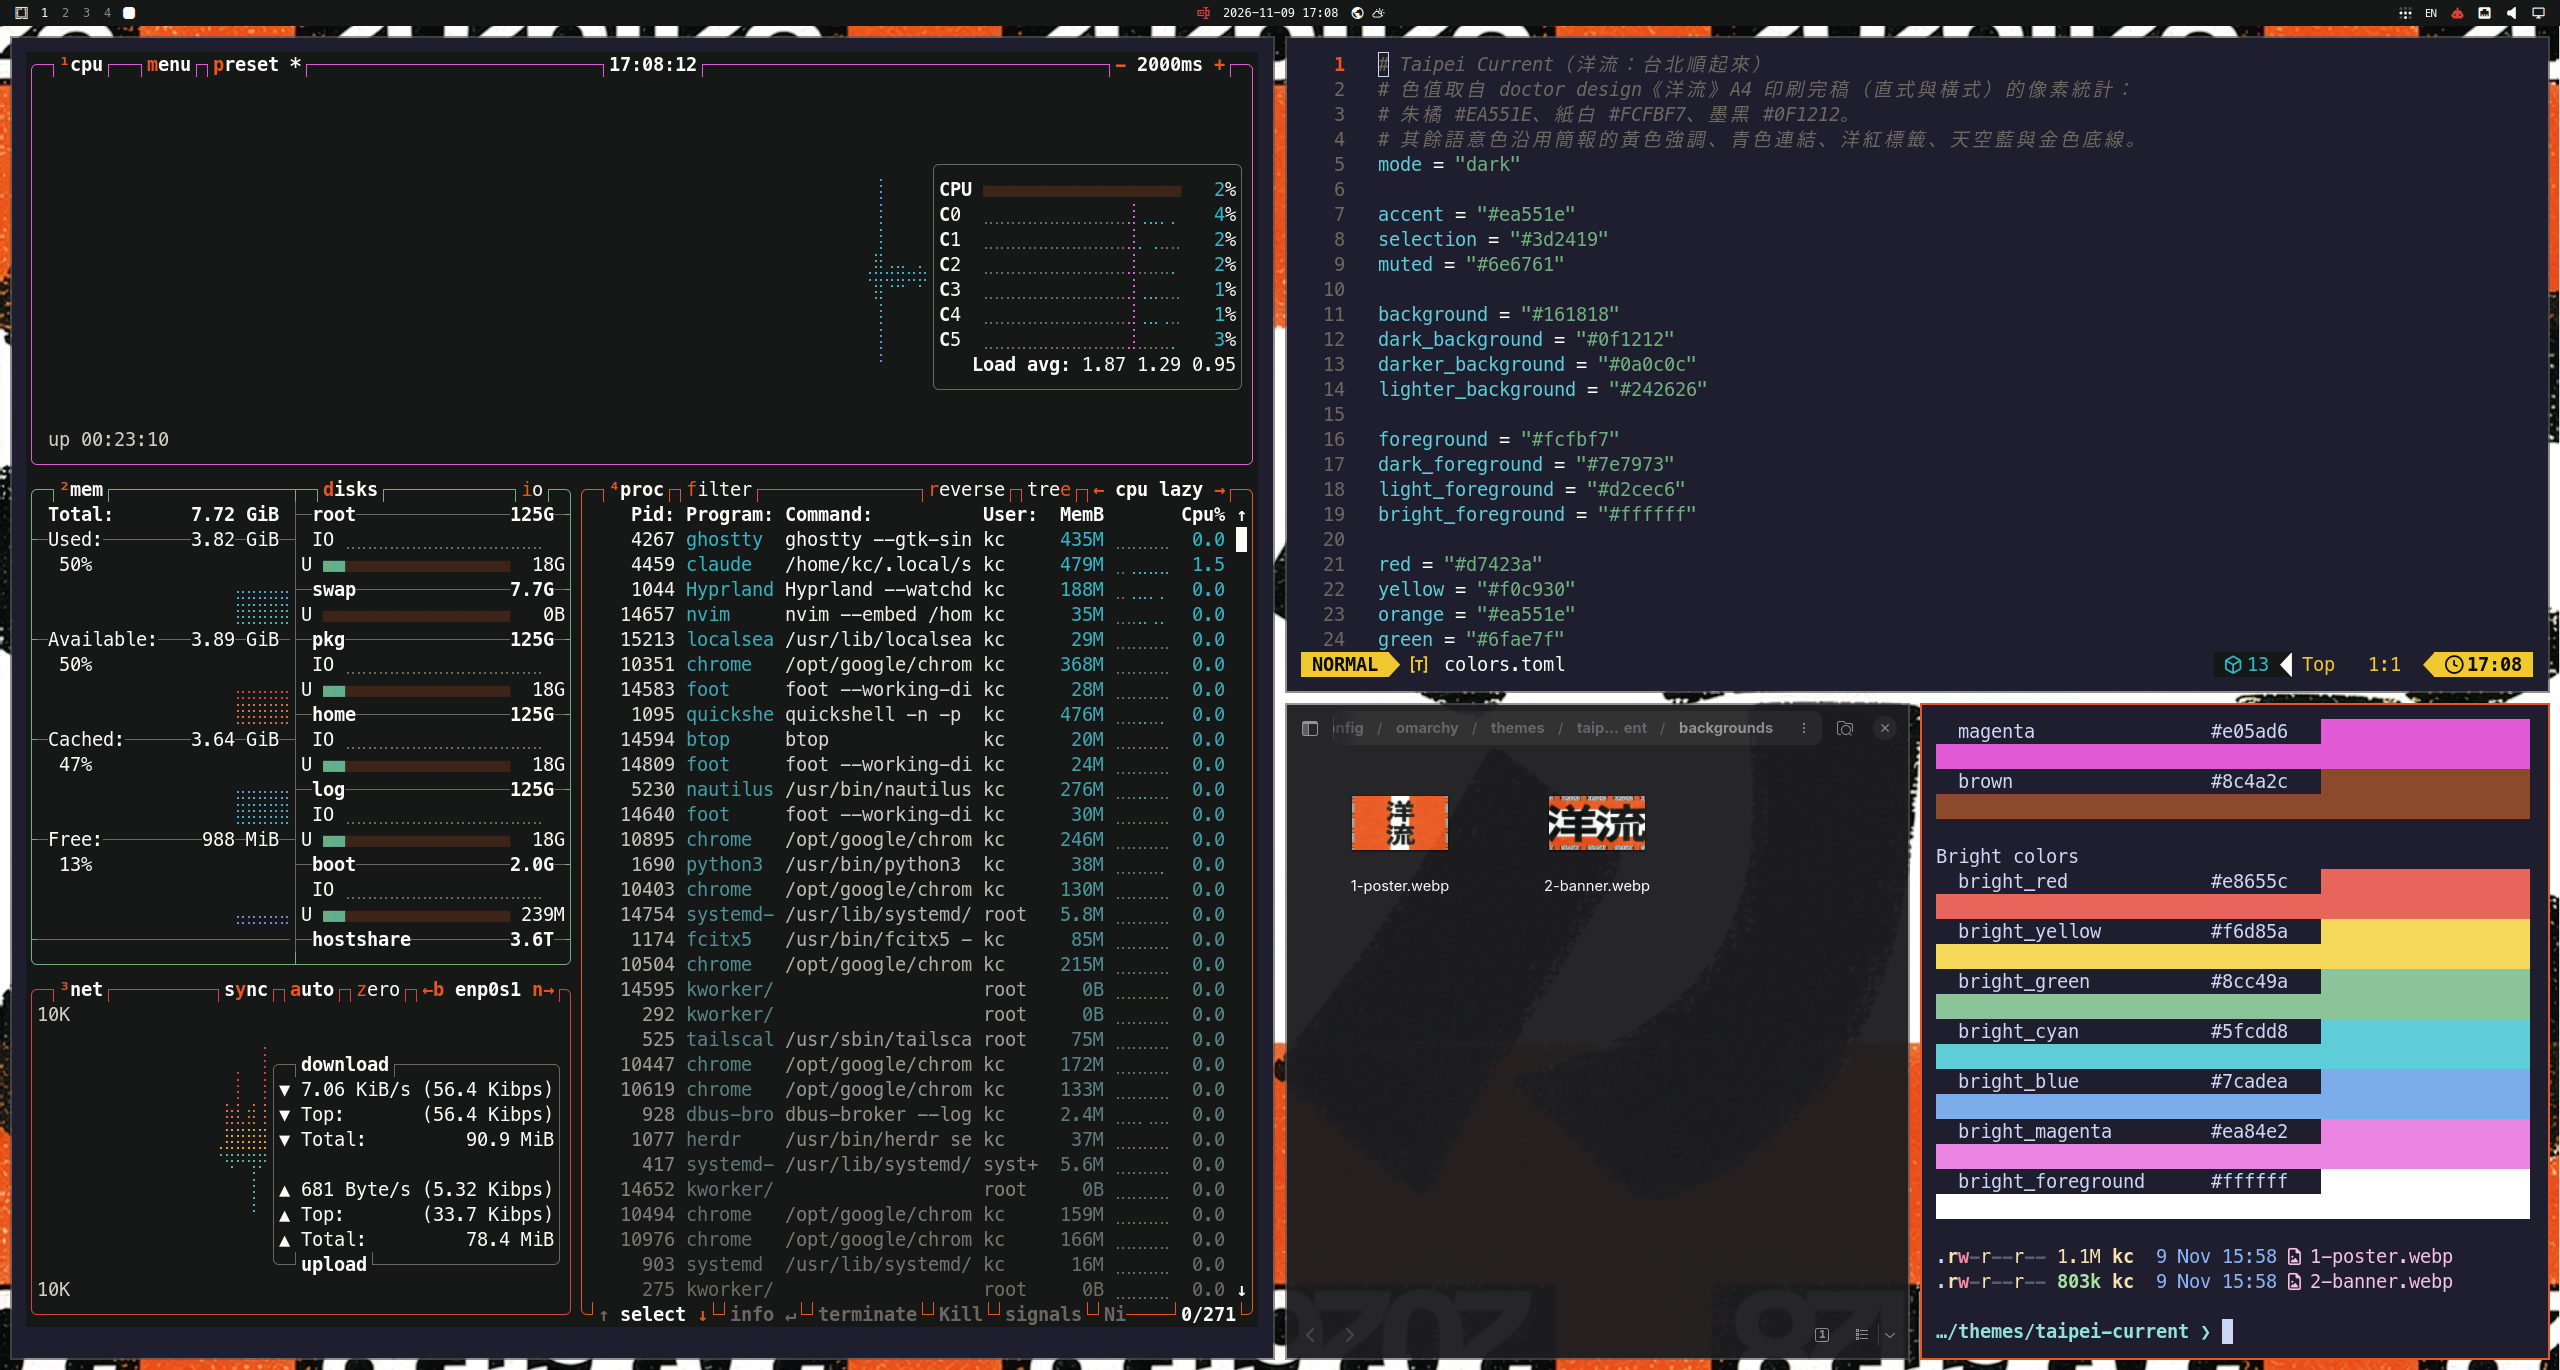
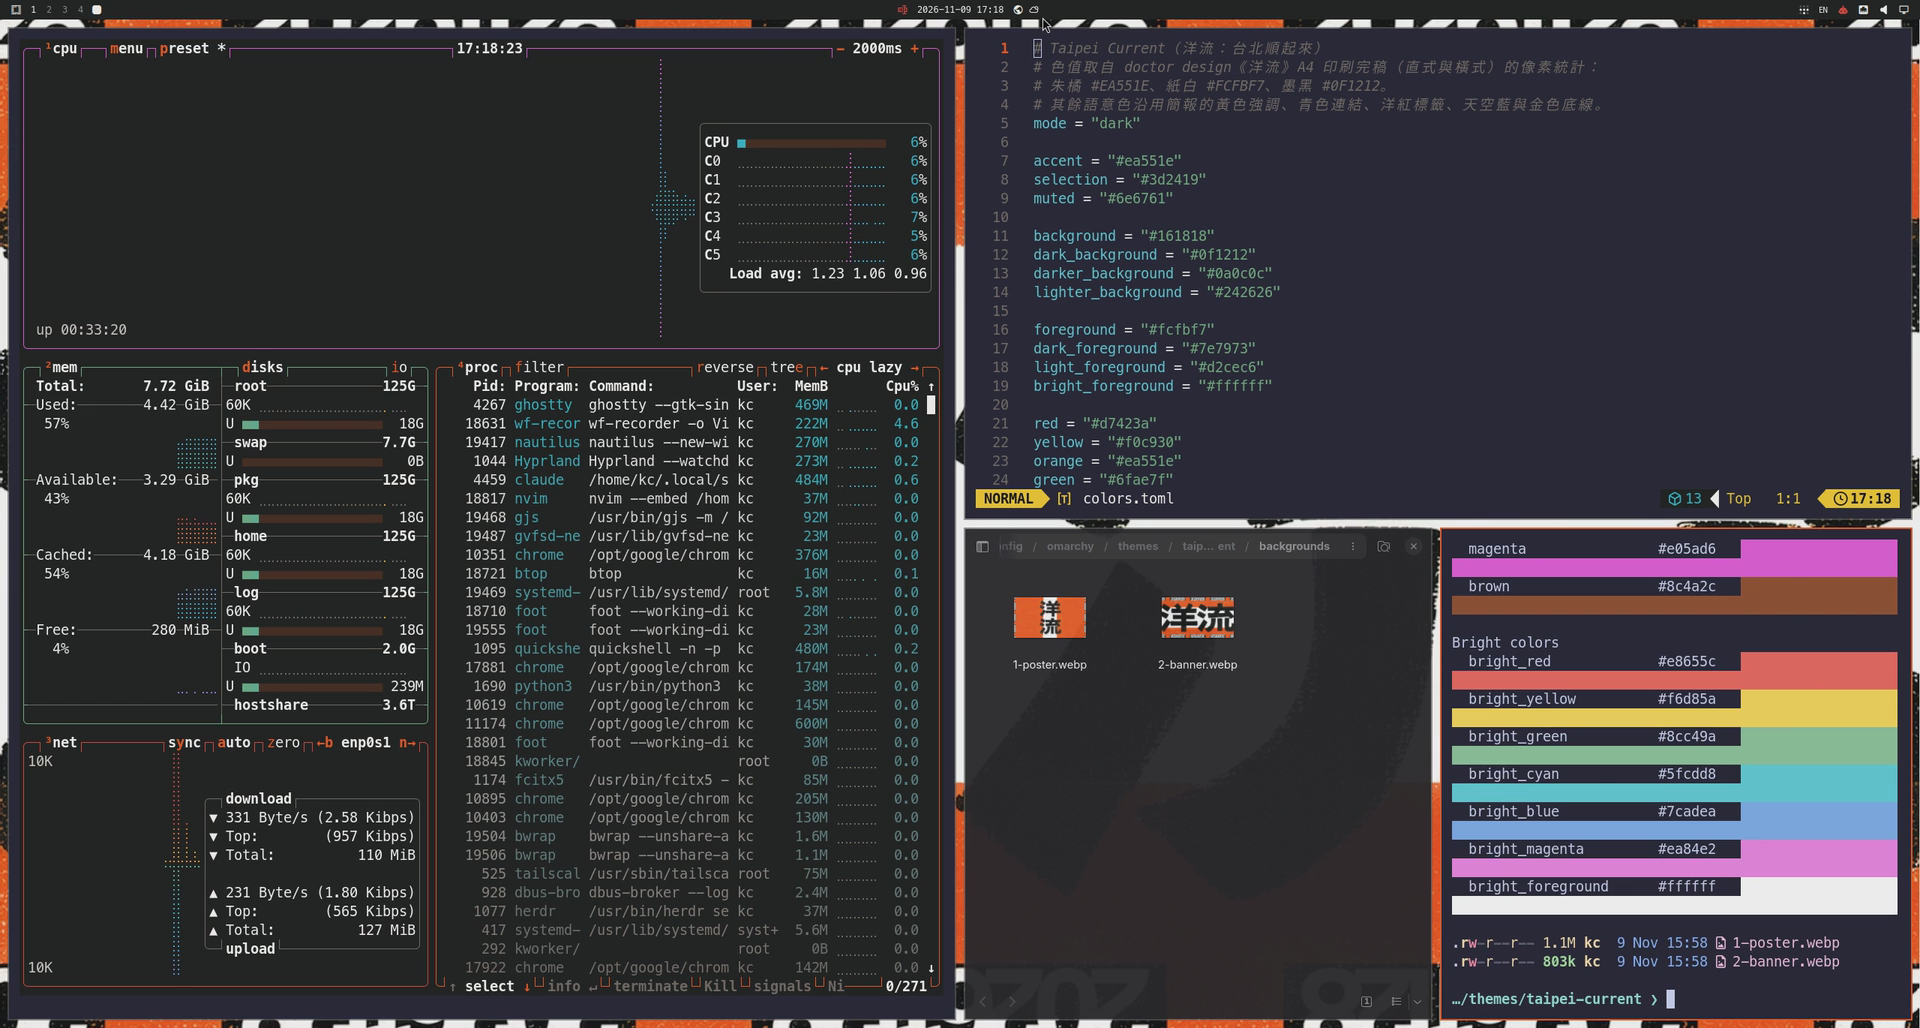
README screenshots taken from the 台北順起來 cut; add title and credit cards

diff --git a/README.md b/README.md
@@ -3,6 +3,8 @@
 一套 [Omarchy](https://omarchy.org) 主題。朱橘、紙白、墨黑三色，色值與桌布都取自 doctor design 的《洋流》A4 印刷完稿，
 把印刷品的粗獷版畫質感原封不動搬到 Hyprland 桌面上。
 
+![Taipei Current](screenshots/title-card.png)
+
 ![Taipei Current demo](screenshots/demo.gif)
 
 ## Install
@@ -20,7 +22,7 @@ omarchy theme bg next              # 切換兩張桌布
 
 ## Screenshots
 
-海報桌布配 btop、Neovim、Files 與 `omarchy dev theme preview` 的調色盤：
+以下畫面均取自上面的示範影片。海報桌布配 btop、Neovim、Files 與 `omarchy dev theme preview` 的調色盤：
 
 ![Desktop with the poster wallpaper](screenshots/desktop-poster.png)
 
@@ -74,5 +76,8 @@ preview.mp4        # 主題選單的動態預覽
 
 ## Credits
 
+![Credits](screenshots/credit-card.png)
+
 - 視覺：《洋流》A4 完稿，doctor design。本主題是以該視覺製作的桌面配色，圖像著作權屬原作者。
+- 配樂：《台北順起來 Future Soon》，2026 沈伯洋官方競選歌曲，音樂版權屬原權利人。
 - 製作：Taipei Current 主題的色票、桌布裁切與預覽由 kcchien 製作。
